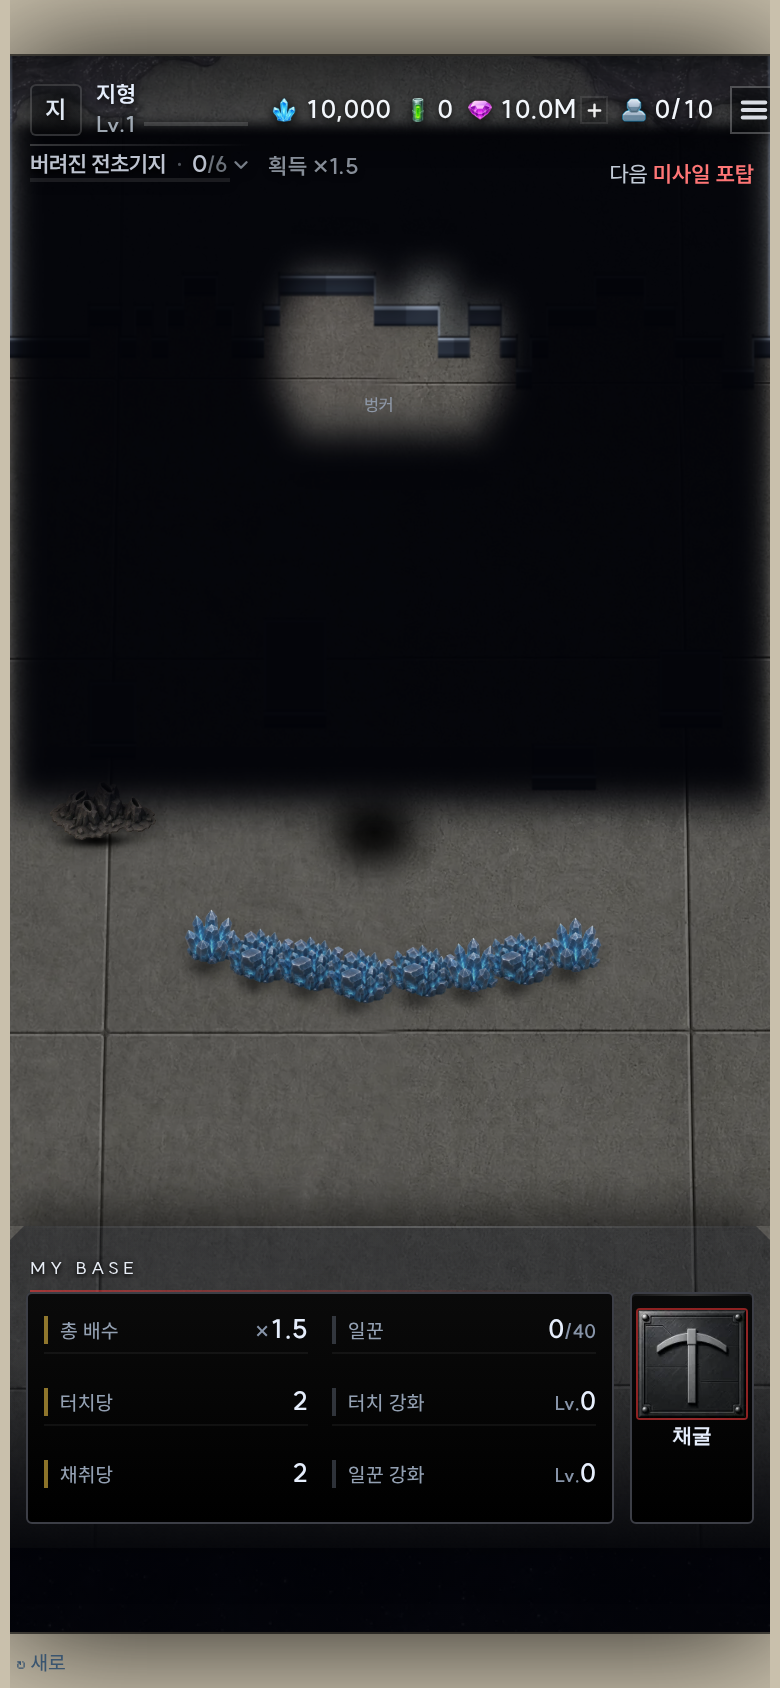
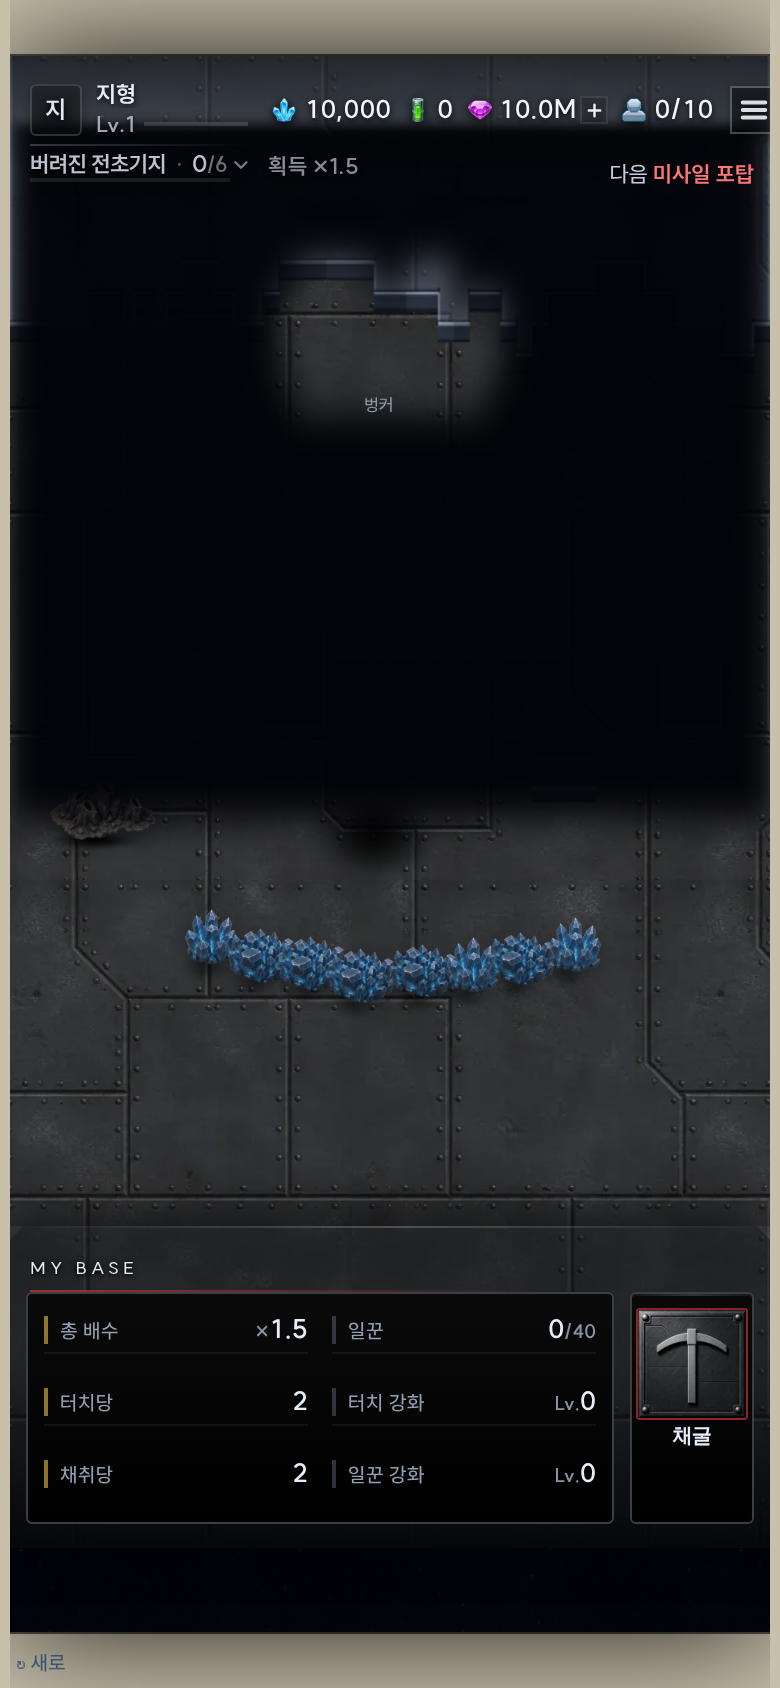
🧱 바닥을 타일로 — 그림 한 장을 반복 텍스처로 바꿨다
사용자 확정 「전면 타일로」. 그림 한 장은 확대하면 뭉개지고(원본의 일부만 쓴다)
3D 건물과 축척이 안 맞았다. 표는 CAMP_TILE(19-camp.js) 하나다.

  0 집 = 석판 · 1 유니온 = 금속 갑판 · 2 스웜 = 붉은 흙 · 3 에테리얼 = 석판(임시)

- 배경 변수(--campBg)는 **그대로 쓰고** 까는 방식만 #phone.tileFloor 로 가른다.
  ⛔ 두 번째 배경 변수를 만들지 말 것.
- 크기는 **px 180**. .bmapFloor 가 뷰 변환을 받으므로 확대·축소를 저절로 따라간다.
  ⛔ 격자 한 칸(8px)에 맞추지 말 것 — 1024 짜리 그림이 뭉개져 흙은 갈색 단색,
  금속은 회색 덩어리가 된다(2026-09-10 실측).
- 🌑 **톤 낮추기(.60)를 걸지 않는다.** 밝은 베이지 그림을 뒤로 물리려던 값이라
  이미 어두운 타일에 걸면 검은 여백이 된다(비교 docs/mock/camp-floor-pick0.png:
  0.78 어둡다 · 0.92 어둡다 · 1.0 여기 · 1.15 뜬다).
- ⚠ 바닥이 평평해지므로 **지형층 고원 색을 진하게** 한다(TERR_HI_TOP.tile .30).
  옛 그림에는 고원이 이미 그려져 있어 .16 이면 됐지만, 타일에서는 이 층이 혼자
  「높은 데」를 말해야 한다. ⛔ 옛 그림 던전에서 진한 값으로 되돌리지 말 것.

새 도구 둘
- scripts/tile-import.mjs — 받은 PNG 를 webp 로 들인다(sharp 가 없어 크로미움으로).
  🩹 --flat 은 **세로 밝기 기울기만** 나눈다: 금속 갑판이 위 55 ↔ 아래 47 이라
  깔면 가로 줄무늬가 됐다 → 51/51(이음매 6.65 → 4.3). ⛔ 줄별 완전 평탄화 금지.
- scripts/camp-floor-pick.mjs — 반복 크기·밝기를 한 장에 붙여 비교한다.

검증: 옛 「던전을 옮기면 바닥이 바뀐다」 스텝을 타일 기준으로 다시 썼다(표와 일치 ·
반복 · 크기 하한 · 톤). **주입 시험 4건 전부 물었다** — 처음 하나가 안 물어 고쳤다:
`'no-repeat'.indexOf('repeat')` 는 3 이라 부분 문자열로 재면 반복을 꺼도 통과했다.

Claude-Session: https://claude.ai/code/session_01EtmtaHFCqqHiZ1fmbN5ZoQ

diff --git a/test/smoke.js b/test/smoke.js
@@ -1957,8 +1957,9 @@ async function groupLobby(){
     { const fl=document.querySelector('#cstMain .bmapFloor');
       assert(fl,'맵 바닥이 없음');
       const bg=getComputedStyle(fl,'::before').backgroundImage;   // 🖼 2026-09-10: 그림은 ::before 에 있다(격자 위까지 깔려야 해서)
-      assert(bg.indexOf('backgrounds/camp/')>=0 || bg.indexOf('backgrounds/dungeons/')>=0,
-        '바닥이 던전 배경이 아님: '+bg.slice(0,60));
+      // 🧱 2026-09-11: 바닥은 **타일**이다(CAMP_TILE). 표에 없는 던전만 옛 그림을 쓴다.
+      assert(bg.indexOf('assets/tiles/')>=0 || bg.indexOf('backgrounds/camp/')>=0 || bg.indexOf('backgrounds/dungeons/')>=0,
+        '바닥이 타일도 던전 배경도 아님: '+bg.slice(0,60));
       assert(bg.indexOf('css/assets')<0,'배경 경로가 css/ 기준으로 샜다: '+bg.slice(0,70)); }
     // ⑥ 옛 사냥터는 안 돈다
     assert(!(typeof _hb!=='undefined' && _hb && _hb.on),'옛 사냥터가 아직 돈다');
@@ -6680,15 +6681,37 @@ async function groupLobby(){
     campEnterDungeon(3); const b=bgOf();
     assert(a && b, '--campBg 가 안 걸렸다');
     assert(a!==b, '던전을 옮겼는데 바닥 그림이 그대로다: '+a.slice(-28));
-    assert(/dg3/.test(b), '던전 3 인데 dg3 그림이 아니다: '+b.slice(-28));
+    /* 🧱 **바닥은 타일이다**(2026-09-11 사용자 확정 「전면 타일로」 · js/19-camp.js CAMP_TILE).
+     *   ⛔ 그림 한 장(assets/backgrounds/…/dg<N>.webp)으로 되돌리지 말 것 — 확대하면 뭉개지고
+     *     3D 건물과 축척이 안 맞았다. 표에 **없는** 던전만 옛 그림을 쓴다(유보 규칙). */
+    { const want=k=>(campTileOf(k)||{}).f;
+      assert(want(1)&&want(2)&&want(3),'던전 1~3 에 바닥 타일이 없다 — 표(CAMP_TILE)가 비었다');
+      for(const k of [1,2,3]){ campEnterDungeon(k); const u=bgOf();
+        assert(u.indexOf('assets/tiles/')>=0,'던전 '+k+' 바닥이 타일이 아니다: '+u.slice(-30));
+        assert(u.indexOf(want(k))>=0,'던전 '+k+' 이 표와 다른 타일을 쓴다: '+u.slice(-30));
+        assert(ph.classList.contains('tileFloor'),'던전 '+k+' 에 .tileFloor 가 안 걸렸다 — 타일이 반복 안 된다');
+        const st=getComputedStyle(document.querySelector('#cstMain .bmapFloor'),'::before');
+        // ⚠ `'no-repeat'.indexOf('repeat')` 는 **3 이다** — 부분 문자열로 재면 반복을 꺼도 통과한다(주입 시험에서 걸렸다)
+        assert(!/no-repeat/.test(st.backgroundRepeat) && /repeat/.test(st.backgroundRepeat),
+          '타일인데 반복이 아니다: '+st.backgroundRepeat);
+        /* ⛔ **격자 한 칸(≈8px)에 맞추지 말 것** — 1024 짜리 그림이 뭉개져 흙은 갈색 단색,
+         *   금속은 회색 덩어리가 된다(2026-09-10 실측). 실측으로 고른 값은 180px 언저리다. */
+        const px=parseFloat(st.backgroundSize);
+        assert(px>=100,'타일 반복이 너무 작다('+px+'px) — 무늬가 통째로 뭉갠다'); }
+      // 🌑 톤 낮추기(.60)는 **그림 한 장** 용이다 — 이미 어두운 타일에 걸면 검은 여백이 된다
+      { const f=getComputedStyle(document.querySelector('#cstMain .bmapFloor')).filter||'';
+        assert(!/brightness\(0?\.[0-8]/.test(f),'타일에 톤 낮추기가 걸렸다: '+f); }
+      /* ⚠ 「표에 없는 던전은 옛 그림」 갈래는 **지금 화면에서 못 잰다** — 전면 개편으로 던전이 3 개뿐이라
+       *   `campEnterDungeon` 이 그 위를 전부 3 으로 자른다(CAMP_DG_MAX). 코드는 유보 규칙으로 남겨 둔다. */
+      { for(let k=1;k<=CAMP_DG_MAX;k++) assert(campTileOf(k),'던전 '+k+' 에 바닥 타일이 없다 — 표를 채울 것'); } }
     // 🏰 **자동 이동이 없다**(2026-09-09 · 던전 = 원정). 완주하면 캠프로 돌아오고, 다음 던전은 골라서 간다.
     //   ⛔ 「50라운드를 채우면 다음 던전으로」를 되살리지 말 것 — 돌아와 재정비하는 것이 규칙이다.
-    { const C=campState(); campEnterDungeon(2); const c2=bgOf();
-      assert(/dg2/.test(c2),'던전 2 인데 dg2 그림이 아니다: '+c2.slice(-28));
+    { campEnterDungeon(2);
       assert(campDgN()===2,'campEnterDungeon(2) 인데 dg 가 2 가 아니다: '+campDgN());
       assert(campBroken()===0,'던전에 들어갔는데 부순 수가 0 이 아니다: '+campBroken()); }
-    { campEnterDungeon(0); campSkin(); }
-    return 'dg1 ≠ dg3 · 던전을 옮기면 갱신 · 자동 이동 없음';
+    { campEnterDungeon(0); campSkin();
+      assert(bgOf().indexOf('assets/tiles/')>=0,'집(캠프)도 타일이어야 한다: '+bgOf().slice(-30)); }
+    return '던전 1~3 + 집 = 타일 · 표 밖은 옛 그림 · 반복 크기·톤 확인';
   });
 
   // ✨ **초반에 적 수가 깜빡이지 않는다** (2026-08-30)

diff --git a/js/24-terrain.js b/js/24-terrain.js
@@ -210,8 +210,20 @@ const TERR_SKIN = {
   hi:   { top:'rgba(120,140,170,.16)', face:'#232935', edge:'rgba(176,196,224,.50)', line:'rgba(8,11,17,.72)', lip:'rgba(198,216,240,.62)' },
   ramp: { top:'rgba(150,175,205,.26)', face:'#2c3442', edge:'rgba(200,220,245,.62)', line:'rgba(8,11,17,.60)', lip:'rgba(214,232,255,.72)' },
   wall: { top:'#3a3f4a',               face:'#20242c', edge:'#69748a',               line:'#12151b',          lip:'#7d89a0' } };
+/* 🧱 **바닥이 타일이면 고원을 더 진하게 칠한다**(2026-09-11).
+ *   옛 배경은 **그림에 고원이 이미 그려져** 있어서 이 층은 테와 앞면만 얹으면 됐다. 타일은 평평해서
+ *   그 연한 값(.16)으로는 고원인지 아닌지가 안 읽힌다 — 「높은 데」라는 것을 이 층이 혼자 말해야 한다.
+ *   ⛔ 옛 그림을 쓰는 던전에서 진한 값으로 되돌리지 말 것: 그림 위에 커다란 회청색 판이 얹힌다(실측). */
+const TERR_HI_TOP   = { scene:'rgba(120,140,170,.16)', tile:'rgba(152,174,208,.30)' };
+const TERR_RAMP_TOP = { scene:'rgba(150,175,205,.26)', tile:'rgba(186,210,240,.40)' };
+function campTerrOnTile(){ return !!(typeof campTileOf === 'function' && typeof campDgN === 'function' && campTileOf(campDgN())); }
+function campTerrSkin(kind){
+  const S = TERR_SKIN[kind] || TERR_SKIN.wall, k = campTerrOnTile() ? 'tile' : 'scene';
+  if(kind === 'hi')   return Object.assign({}, S, { top: TERR_HI_TOP[k] });
+  if(kind === 'ramp') return Object.assign({}, S, { top: TERR_RAMP_TOP[k] });
+  return S; }
 function campTerrSheet(kind, px){
-  const S = TERR_SKIN[kind] || TERR_SKIN.wall;
+  const S = campTerrSkin(kind);
   const cv = document.createElement('canvas'); cv.width = px * 4; cv.height = px * 3;
   const x = cv.getContext('2d'), E = Math.max(2, Math.round(px * 0.12));
   // 12칸: 어느 변이 바깥으로 드러나는가
@@ -267,14 +279,14 @@ function campTerrBake(){
   const face = Math.round(px * TERR_FACE_K);
   for(let ty = 0; ty < W; ty++) for(let tx = 0; tx < C; tx++){
     if(!hiAt(tx, ty) || hiAt(tx, ty + 1)) continue;
-    const ramp = T.r[ty * C + tx] > 0, S = TERR_SKIN[ramp ? 'ramp' : 'hi'], lip = Math.max(1, px * 0.09);
+    const ramp = T.r[ty * C + tx] > 0, S = campTerrSkin(ramp ? 'ramp' : 'hi'), lip = Math.max(1, px * 0.09);
     x.fillStyle = S.face; x.fillRect(tx * px, (ty + 1) * px, px, face);
     x.fillStyle = S.lip;  x.fillRect(tx * px, (ty + 1) * px, px, lip);                       // 윗입술 — 「여기서 떨어진다」
     x.fillStyle = S.line; x.fillRect(tx * px, (ty + 1) * px + face - lip, px, lip); }        // 발치 그늘
   const wallAt = (tx, ty) => inB(tx, ty) && T.w[ty * C + tx] > 0;
   layer(wallAt, sheets.wall);
   // 🧱 벽도 앞면을 갖는다 — 평평한 판은 「못 지나간다」로 안 읽힌다(2026-09-10 실측)
-  { const S = TERR_SKIN.wall, wf = Math.round(px * TERR_FACE_K * 0.8), lip = Math.max(1, px * 0.09);
+  { const S = campTerrSkin('wall'), wf = Math.round(px * TERR_FACE_K * 0.8), lip = Math.max(1, px * 0.09);
     for(let ty = 0; ty < W; ty++) for(let tx = 0; tx < C; tx++){
       if(!wallAt(tx, ty) || wallAt(tx, ty + 1)) continue;
       x.fillStyle = S.face; x.fillRect(tx * px, (ty + 1) * px, px, wf);
@@ -315,7 +327,7 @@ function campTerrSync(){
   const C0 = (typeof campState === 'function') ? campState() : null;
   const dg = campDgN(), seed = (C0 && C0.foeSeed) || 1;
   const wy0 = (f.wy0 == null ? 0 : f.wy0), wy1 = (f.wy1 == null ? 1 : f.wy1);
-  const sig = dg + '/' + seed + '/' + f.cols + 'x' + f.rows + '/' + wy0.toFixed(4);
+  const sig = dg + '/' + seed + '/' + f.cols + 'x' + f.rows + '/' + wy0.toFixed(4) + '/' + (campTerrOnTile() ? 'T' : 'S');
   if(CAMPT && CAMPT.sig === sig) return true;
   campTerrInit(wy0, wy1, f.rows); campTerrGen(dg, seed); CAMPT.sig = sig;
   campTerrPushHeight(f);   // 👁 지형이 새로 생겼으면 안개의 고저도 갈아 끼운다(씨앗이 바뀌면 절벽 자리도 바뀐다)

diff --git a/js/19-camp.js b/js/19-camp.js
@@ -6654,12 +6654,39 @@ const CAMP_BG_HOME = 'camp.webp';   // 0단계 전용 그림(ART.md §11-B)
 //   v2 는 바닥을 격자 위 0.58 까지 늘려 깔고(::before top −58%), 옛 §11 그림(9:16 · 118%)은 −18% 다 — 옛 그림을 −58% 로 깔면
 //   내 기지 석판이 1.34배 커져 본부가 타일 한 장 위에 선다(실측 2026-09-10 · 홈 캠프). 그림을 갈아 끼우면 여기를 true 로.
 const CAMP_BG_V2 = { 0:false, 1:false, 2:false, 3:false };
-function campFloorTop(dg){ return CAMP_BG_V2[dg | 0] ? -0.58 : -0.18; }
+/* 🧱 **바닥 타일**(2026-09-11 사용자 확정 「전면 타일로」) — 그림 한 장 대신 **반복 텍스처**를 깐다.
+ *   ⭐ 왜 — 그림 한 장은 확대하면 뭉개지고(원본의 일부만 쓴다) 3D 건물과 축척이 안 맞았다.
+ *     타일은 확대해도 안 깨지고, 지형층(js/24-terrain.js)이 그 위에 벽·절벽을 그린다.
+ *   📐 `px` = 화면 배율 1 에서 타일 한 장이 차지하는 CSS 픽셀. 맵 폭이 380 이므로 180 이면 두 장쯤 보인다.
+ *     ⛔ **격자 한 칸(8px)에 맞추지 말 것** — 1024 짜리 그림이 8px 로 줄어 무늬가 통째로 뭉갠다
+ *       (2026-09-10 실측: 흙은 갈색 단색, 금속은 회색 덩어리가 됐다).
+ *   ⚠ 표에 없는 던전은 **옛 그림 한 장**을 그대로 쓴다(유보 규칙 — 한 번에 다 갈지 않는다).
+ *   🩹 금속(camp_metal)은 위/아래 밝기가 55/47 이라 깔면 가로 줄무늬가 생겼다 →
+ *     `scripts/tile-import.mjs --flat` 으로 기울기만 나눠 51/51 로 들였다(이음매 6.65 → 4.3). */
+const CAMP_TILE = {
+  0: { f:'camp_stone.webp', px:180 },   // 🏕 집 — 석판
+  1: { f:'camp_metal.webp', px:180 },   // 유니온 기지 — 금속 갑판
+  2: { f:'camp_dirt.webp',  px:180 },   // 스웜 — 붉은 흙
+  3: { f:'camp_stone.webp', px:180 },   // 에테리얼 — 석판(임시)
+};
+const CAMP_TILE_DIR = 'assets/tiles/';
+function campTileOf(dg){ return CAMP_TILE[dg | 0] || null; }
+// 바닥이 덮는 세로 위끝 — 타일은 **위로 더 깐다**(격자 위 적 기지까지 · 반복이라 늘려도 공짜다)
+function campFloorTop(dg){ return campTileOf(dg) ? -0.80 : (CAMP_BG_V2[dg | 0] ? -0.58 : -0.18); }
 function campSkin(){
   const C = campState(); if(!C) return;
   const el = document.getElementById('phone'); if(!el) return;
   const raw = (C.dg | 0);
   el.style.setProperty('--floorTop', (campFloorTop(raw) * 100).toFixed(0) + '%');   // css/30-home.css .bmapFloor::before
+  // 🧱 **타일이 있으면 타일을 깐다** — 변수(`--campBg`)는 하나로 두고 **까는 방식**만 클래스로 가른다.
+  //   ⛔ 두 번째 배경 변수를 만들지 말 것(어느 쪽이 진짜인지 알 수 없어진다).
+  { const t = campTileOf(raw);
+    el.classList.toggle('tileFloor', !!t);
+    if(t){ const u = new URL(CAMP_TILE_DIR + t.f, document.baseURI).href;
+      el.style.setProperty('--campBg', "url('" + u + "')");
+      el.style.setProperty('--campTileSz', t.px + 'px');
+      el.style.setProperty('--mnSx', String(CAMP_MINE_SX));
+      return; } }
   if(raw <= 0){   // 캠프 — 전용 그림 한 장
     const u = new URL(CAMP_BG_DIR + CAMP_BG_HOME, document.baseURI).href;
     el.style.setProperty('--campBg', "url('" + u + "')");

diff --git a/css/30-home.css b/css/30-home.css
@@ -1263,8 +1263,20 @@
      📐 58% 는 그림에서 나온 값이다(ART.md §17): 그림 위 6.5%(광맥 홈) ↔ gy −0.48(CAMP_FOE_ROW.mine) · 아래 100% ↔ gy 1.0
        → 그림 높이 = 1.58 gy. 그림의 고원(8~27%)이 gy −0.45 ~ −0.15 = 적 기지(−0.42 ~ −0.18) 자리다.
        ⛔ 이 값과 23-camp-dungeon CAMP_FOE_ROW 는 한 몸이다 — 한쪽만 옮기면 건물이 고원 밖에 선다. */
-  #phone.campMode #cstMain .bmapFloor::before{content:'';position:absolute;left:0;right:0;bottom:0;top:var(--floorTop,-18%);   /* 값은 campSkin(CAMP_BG_V2) — 옛 그림 −18% · §17 그림 −58% */
+  #phone.campMode #cstMain .bmapFloor::before{content:'';position:absolute;left:0;right:0;bottom:0;top:var(--floorTop,-18%);   /* 값은 campSkin(CAMP_BG_V2) — 옛 그림 −18% · §17 그림 −58% · 타일 −80% */
     background-image:var(--campBg,none);background-size:auto 100%;background-position:center bottom;background-repeat:no-repeat}
+  /* 🧱 **바닥 타일**(2026-09-11 · js/19-camp.js CAMP_TILE) — 그림 한 장 대신 반복 텍스처.
+     ⭐ 배경 **변수는 그대로 쓰고**(`--campBg`) 까는 방식만 바꾼다 — 두 번째 변수를 만들지 말 것.
+     📐 크기는 **px** 이다: `.bmapFloor` 가 뷰 변환(scale)을 받으므로 px 로 두면 확대·축소를 저절로 따라간다.
+     ⛔ 격자 한 칸(8px)에 맞추지 말 것 — 무늬가 통째로 뭉갠다(실측). */
+  #phone.campMode.tileFloor #cstMain .bmapFloor::before{
+    background-size:var(--campTileSz,180px) var(--campTileSz,180px);
+    background-position:0 0;background-repeat:repeat}
+  /* 🌑 **타일에는 톤 낮추기를 걸지 않는다.** 그림 한 장에 맞춰 놓은 `.60` 은 밝은 베이지 배경을 뒤로
+     물리려던 값이다 — 이미 어두운 타일에 그걸 걸면 **검은 여백**이 된다(실측 비교 docs/mock/camp-floor-pick0.png:
+     0.78 너무 어둡다 · 0.92 어둡다 · **1.0 여기** · 1.15 살짝 뜬다).
+     ⚠ 어둡게/밝게 하고 싶으면 **여기 한 줄**을 고친다(타일을 다시 뽑지 말 것). */
+  #phone.campMode.tileFloor #cstMain .bmapFloor{filter:none}
   #phone.campMode #cstMain .bmapFloor{
     /* 🎨 배경은 **맵과 같은 세로 비율로 그려져 있다**(9:16 · 1520×2688 · ART.md §11).
        그래서 cover 한 줄로 끝난다 — 좌우 5% 씩만 넘쳐 잘리고 위아래는 그대로 다 보인다.

diff --git a/CLAUDE.md b/CLAUDE.md
@@ -69,7 +69,8 @@
   - 🚶 **길막기는 「전장 흐름장」이다**(2026-09-11 3단계 · `campTerrMask`→`campTerrFlow`→`campTerrWay` → `campMove` 가 **목표만 바꾼다**). ⛔⛔ **지형을 `_techNavRects` 에 얹는 방식으로 되돌리지 말 것** — `_techFindPath` 는 기지 격자 전용이라 `p[1]>0.12` 로 노드를 걸러 **격자 위 지형의 꼭짓점을 전부 버린다**(장애물은 보되 돌아갈 모서리가 안 생겨 **아군이 갇힌다** · A/B 6판 중 2판). 지형은 흐름장, 건물은 A\* — ⛔ 하나로 합치지 말 것 · ⛔ 밀어내기를 더하지 말 것(2026-09-05 갇힘의 원인).
     - ⚠ **레인 밖(gx 0.06~0.94 · gy −0.431~0.62 밖)을 반드시 막을 것** — 전장이 못 가는 자리다(실측: 유닛이 30초간 못 가는 칸으로 가라는 지시를 받고 안 움직였다). 연결성 검사도 **레인 안에서**(`campTerrLaneRows` · ⛔ 「gy 가 든 행」으로 잡으면 한 행 어긋나 300/300 실패한다).
     - ⚠ 「막힌 칸을 밟은 프레임」은 **0~1 이 정상**(밀어내기를 안 하므로) — 우회를 끄면 3~8 이다. 스모크가 그 차이로 배선을 잰다.
-  - 🎬 **손댔으면 `node scripts/camp-terr-shot.mjs` 로 눈으로 볼 것.**
+  - 🧱 **바닥은 타일이다**(2026-09-11 사용자 확정 「전면 타일로」 · 표는 `CAMP_TILE`(19-camp.js) 하나 · `assets/tiles/camp_*.webp`). ⛔ 그림 한 장으로 되돌리지 말 것(확대하면 뭉개지고 3D 와 축척이 안 맞았다) · ⭐ 배경 변수는 `--campBg` 그대로 쓰고 **까는 방식만** `#phone.tileFloor` 로 가른다(⛔ 두 번째 변수 금지) · 📐 크기는 **px 180**(⛔ 격자 한 칸 8px 에 맞추면 무늬가 통째로 뭉갠다 · 실측) · 🌑 **톤 낮추기(.60)를 걸지 말 것**(밝은 그림용 값이라 타일엔 검은 여백이 된다 — 밝기는 CSS 한 줄로 조절) · ⚠ 바닥이 평평해지므로 **지형층 고원 색이 진해진다**(`TERR_HI_TOP.tile` · ⛔ 옛 그림 던전에서 진한 값으로 되돌리지 말 것) · 🩹 새 타일은 **`scripts/tile-import.mjs --flat`** 으로 들인다(세로 밝기 기울기를 나눈다 — 안 하면 가로 줄무늬).
+  - 🎬 **손댔으면 `node scripts/camp-terr-shot.mjs`(지형) · `node scripts/camp-floor-pick.mjs`(바닥 크기·밝기) 로 눈으로 볼 것.**
 - 🧱 **밸런스를 잴 땐 「도달 던전·라운드」를 쓰지 말 것**(2026-09-08 실측) — 한 팔 안의 편차가 팔 사이 차이만큼
   크다. **번 돈**이 훨씬 안정적인 자다. 전략이 갈리는지는 **`node scripts/camp-strat.mjs`**(전략 프리셋 + 갈림도)로 잰다.
   ⚠ 옛 「구매 정책 A/B/C」는 **전략이 아니다**(셋 다 같은 ROI 순위) — 그걸로 잰 비교는 전부 같은 전략을 견준 것이다.

diff --git a/ARCHITECTURE.md b/ARCHITECTURE.md
@@ -100,6 +100,28 @@
 - 🚧 **길이 막히면 안 된다**(`campTerrConnected` · flood fill). 막혔으면 마지막 덩어리부터 걷어 낸다 —
   릴레이 던전은 적이 나한테 와야 성립한다.
 
+#### 🧱 바닥 타일 (5단계 · 2026-09-11)
+
+**그림 한 장 → 반복 텍스처.** 확대하면 뭉개지고(원본의 일부만 쓴다) 3D 건물과 축척이 안 맞던 것을
+타일로 바꿨다. 표는 `CAMP_TILE`(js/19-camp.js) 하나다 — 던전 번호 → `{ 파일, px }`.
+
+- ⭐ **배경 변수는 그대로 쓴다**(`--campBg`) — 까는 방식만 `#phone.tileFloor` 클래스로 가른다.
+  ⛔ 두 번째 배경 변수를 만들지 말 것(어느 쪽이 진짜인지 알 수 없어진다).
+- 📐 크기는 **px** 다. `.bmapFloor` 가 뷰 변환(scale)을 받으므로 px 로 두면 확대·축소를 저절로 따라간다.
+  ⛔ **격자 한 칸(≈8px)에 맞추지 말 것** — 1024 짜리 그림이 뭉개져 흙은 갈색 단색, 금속은 회색 덩어리가 된다
+  (2026-09-10 실측). 실측으로 고른 값은 **180px**(맵 폭 380 → 두 장쯤 · 비교 `docs/mock/camp-floor-pick0.png`).
+- 🌑 **톤 낮추기(`.60`)를 걸지 않는다.** 그 값은 밝은 베이지 그림을 뒤로 물리려던 것이다 —
+  이미 어두운 타일에 걸면 검은 여백이 된다(0.78 어둡다 · 0.92 어둡다 · **1.0 여기** · 1.15 뜬다).
+  ⚠ 밝기를 바꾸고 싶으면 **CSS 한 줄**을 고친다(타일을 다시 뽑지 말 것).
+- ⚠ 바닥이 평평해지므로 **지형층의 고원 색이 진해진다**(`TERR_HI_TOP.tile`) — 옛 그림에는 고원이 이미
+  **그려져** 있어 연한 값(.16)이면 됐지만, 타일에서는 이 층이 혼자 「높은 데」를 말해야 한다.
+  ⛔ 옛 그림을 쓰는 던전에서 진한 값으로 되돌리지 말 것(그림 위에 회청색 판이 얹힌다).
+- 🩹 **들일 때 이음매를 본다**(`scripts/tile-import.mjs --flat`): 세로 방향 **전체 밝기 기울기**가 있으면
+  깔았을 때 가로 줄무늬가 된다. 금속 갑판이 위 55 ↔ 아래 47 이었다 → 기울기만 나눠 51/51(이음매 6.65 → 4.3).
+  ⛔ 줄별로 완전히 평탄화하지 말 것 — 무늬의 진짜 명암까지 지워져 밋밋해진다.
+
+🎬 `node scripts/camp-floor-pick.mjs [던전번호]` — 반복 크기·밝기를 한 장에 붙여 비교한다.
+
 #### 👁 시야 차단 (2단계 · 2026-09-10)
 
 **막는 일은 이미 엔진이 하고 있었다.** `_fogReveal` 의 `if(!air && fogHeightAt(...)>vh) continue;`
